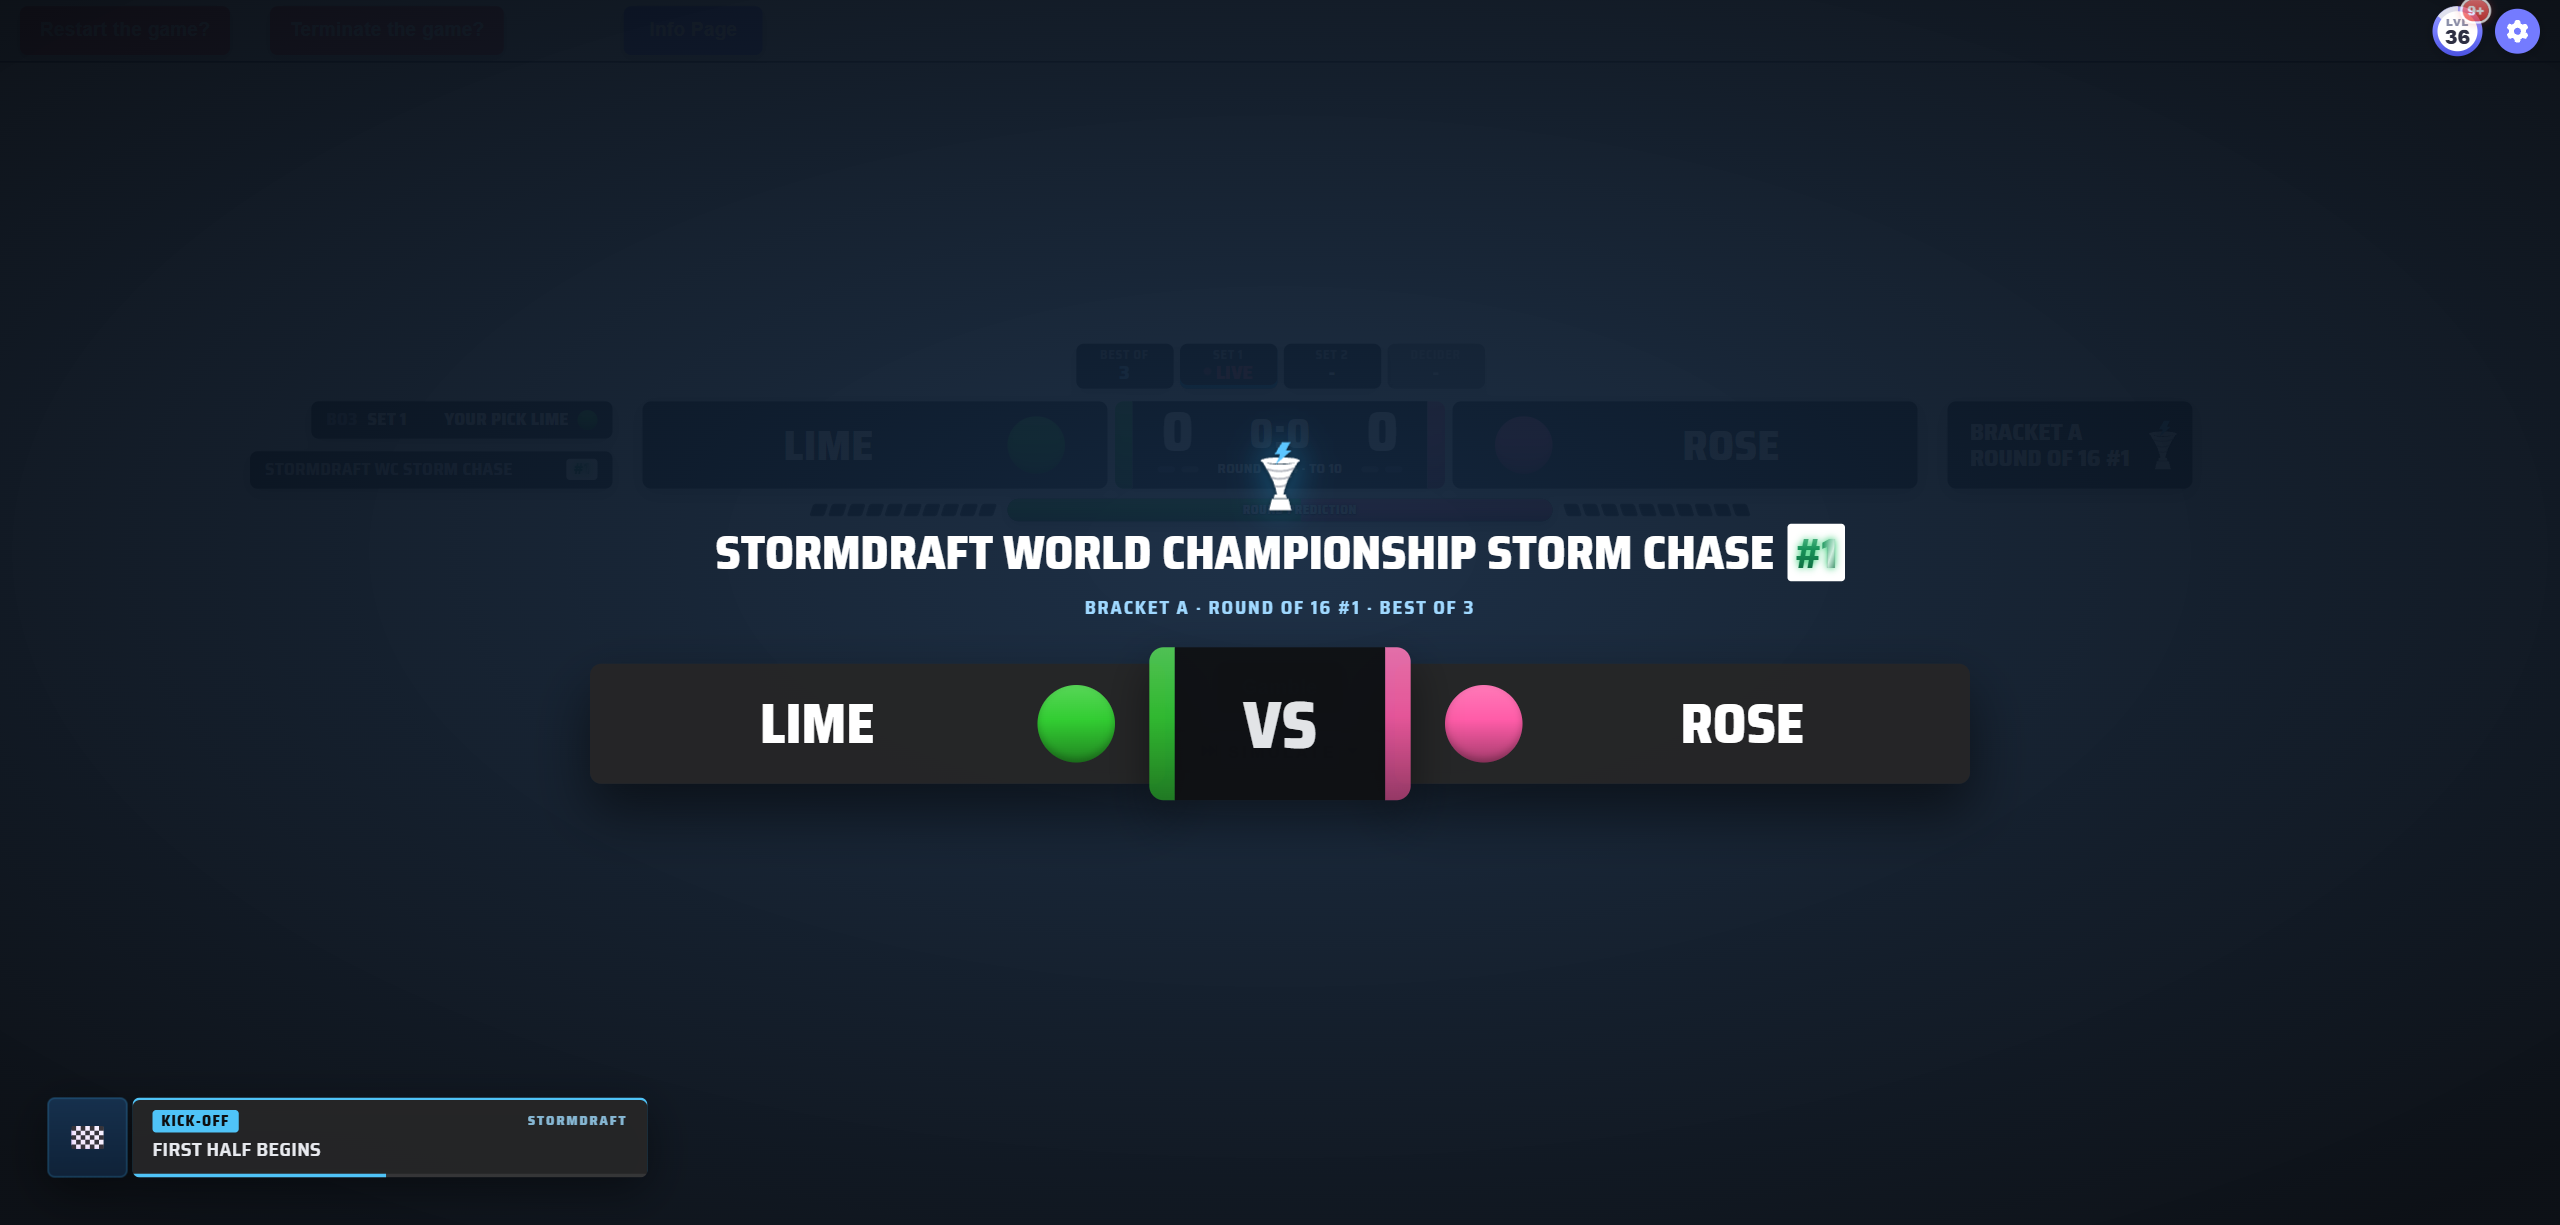
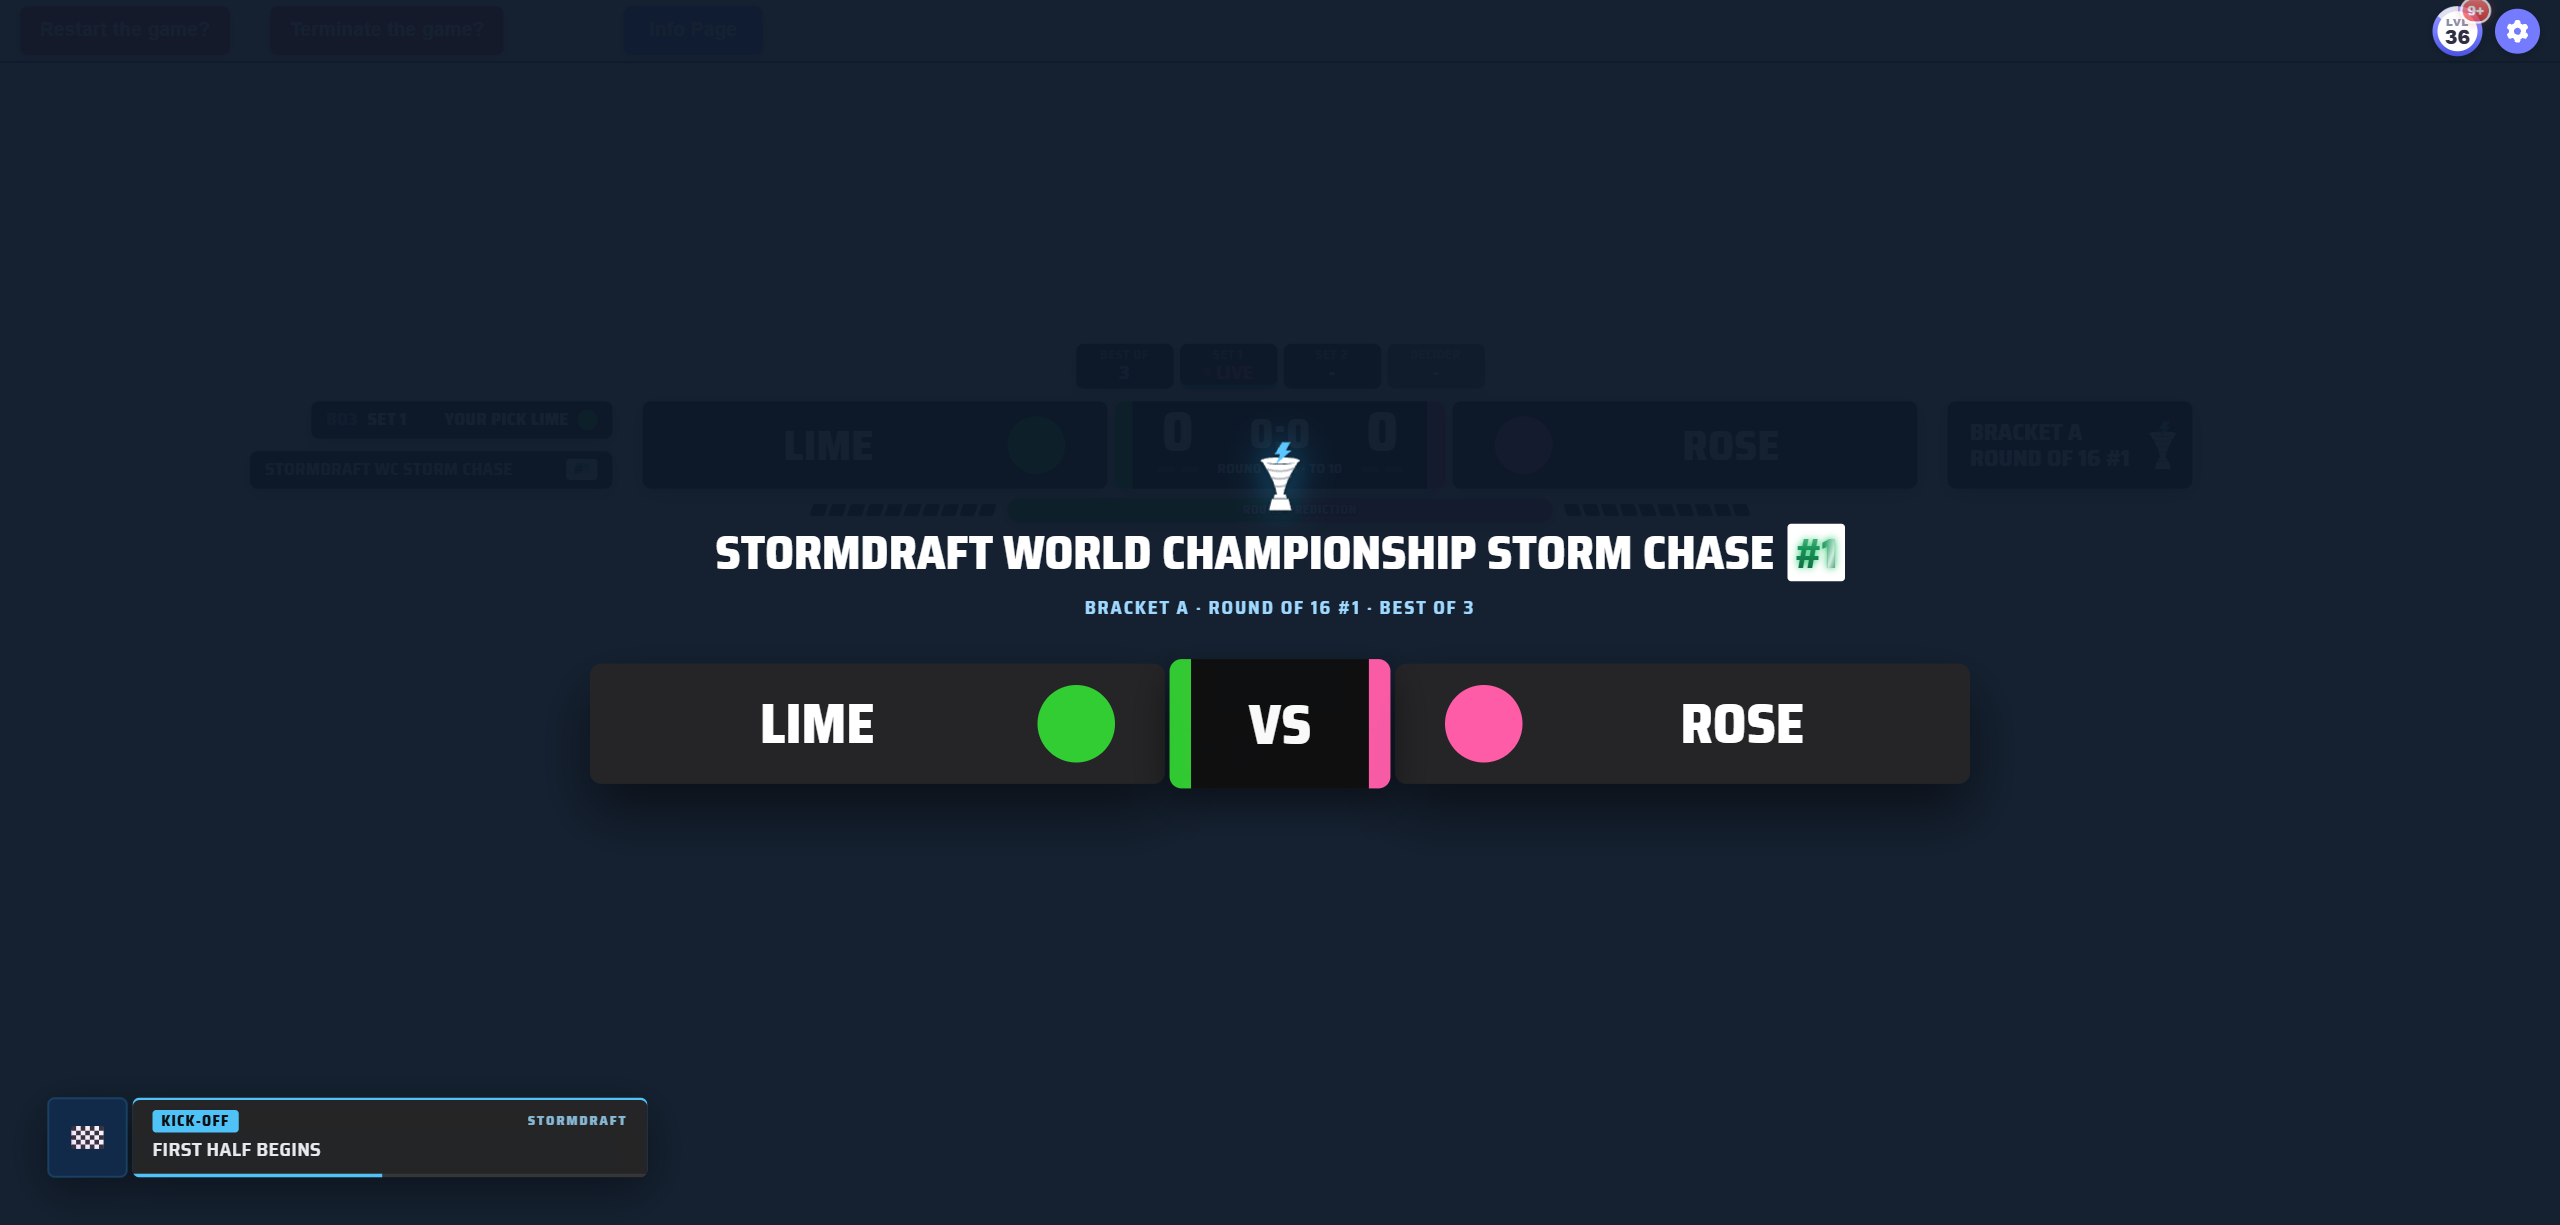
flatten the teams' colors in SWC's HUD

Changed region(s): [[0.4062, 0.5273, 0.5938, 0.6514], [0.875, 0.8996, 1.0, 1.0], [0.0, 0.8996, 0.125, 1.0]]

diff --git a/src/pages/SpecialModePage/series/hud/Swc.module.css b/src/pages/SpecialModePage/series/hud/Swc.module.css
@@ -36,7 +36,6 @@
     width: 100%;
     height: 100%;
     border-radius: 50%;
-    box-shadow: inset 0 -3px 6px rgba(0, 0, 0, 0.25);
 }
 
 .static {
@@ -1025,7 +1024,7 @@
         linear-gradient(118deg, transparent 0 34%, rgba(255, 255, 255, 0.07) 34% 46%, transparent 46%),
         linear-gradient(64deg, transparent 0 58%, rgba(110, 180, 255, 0.12) 58% 71%, transparent 71%),
         linear-gradient(150deg, transparent 0 74%, rgba(255, 255, 255, 0.06) 74% 86%, transparent 86%),
-        linear-gradient(100deg, #0c1a2d 0%, #15335a 45%, #0e2239 72%, #1a426c 100%);
+        #13294a;
     opacity: 0;
 }
 
@@ -1547,7 +1546,7 @@
     align-items: center;
     justify-content: center;
     padding: 24px;
-    background: radial-gradient(70% 70% at 50% 50%, rgba(18, 38, 62, 0.72) 0%, rgba(5, 8, 13, 0.9) 100%);
+    background: rgba(10, 22, 38, 0.84);
     backdrop-filter: blur(10px);
 }
 
@@ -1764,7 +1763,7 @@
     column-gap: 22px;
     padding: 0 26px;
     border-radius: 7px;
-    background: linear-gradient(180deg, var(--s-navy-light), var(--s-navy));
+    background: var(--s-navy);
     box-shadow: 0 6px 16px rgba(0, 0, 0, 0.35);
 }
 
@@ -2166,7 +2165,7 @@ button.set:disabled {
     justify-content: center;
     gap: 34px;
     overflow: hidden;
-    background: radial-gradient(70% 70% at 50% 45%, rgba(18, 38, 62, 0.95) 0%, rgba(5, 9, 15, 0.97) 100%);
+    background: rgba(11, 24, 41, 0.96);
     cursor: pointer;
 }
 
@@ -2438,11 +2437,11 @@ button.set:disabled {
 }
 
 .panel_fill {
-    background: linear-gradient(90deg, color-mix(in srgb, var(--team-color) 62%, #1a1a1c) 0%, color-mix(in srgb, var(--team-color) 40%, #1a1a1c) 100%);
+    background: color-mix(in srgb, var(--team-color) 52%, #1a1a1c);
 }
 
 .panel_setwon .panel_fill {
-    background: linear-gradient(90deg, color-mix(in srgb, var(--team-color) 30%, #252527) 0%, color-mix(in srgb, var(--team-color) 18%, #252527) 100%);
+    background: color-mix(in srgb, var(--team-color) 24%, #252527);
 }
 
 .panel_right .panel_fill {
@@ -2482,7 +2481,7 @@ button.set:disabled {
 }
 
 .panel_shutter {
-    background: linear-gradient(180deg, rgba(8, 8, 9, 0.55) 0%, rgba(8, 8, 9, 0.25) 100%);
+    background: rgba(8, 8, 9, 0.42);
     transform-origin: top center;
 }
 

diff --git a/src/pages/SpecialModePage/series/hud/SwcHud.jsx b/src/pages/SpecialModePage/series/hud/SwcHud.jsx
@@ -233,7 +233,7 @@ const Fit = ({ children }) => {
 
 const teamVars = (team) => ({
     "--team-color": team?.color ?? "#8b909e",
-    "--team-gradient": team?.gradient ?? team?.color ?? "#8b909e",
+    "--team-gradient": team?.color ?? "#8b909e",
     "--team-text": pemTextOn(team?.color),
 });
 
@@ -317,7 +317,7 @@ const Streak = ({ streak = 0 }) => (
 );
 
 const Logo = ({ team, className = "" }) => (
-    <span className={`${css.logo} ${className}`} style={{ background: team?.gradient ?? team?.color, "--team-color": team?.color ?? "#8b909e" }} />
+    <span className={`${css.logo} ${className}`} style={{ background: team?.color ?? "#8b909e", "--team-color": team?.color ?? "#8b909e" }} />
 );
 
 const Panel = ({ side, team, volt = 0, streak = 0, finale = null, play = false, cheat = false, result = null, opacity = 1 }) => (
@@ -809,7 +809,7 @@ export const SwcSets = ({ chips, bestOf, selectedIndex = null, onSelect = null, 
                     disabled={onSelect ? selected : undefined}
                     onClick={onSelect ? () => onSelect(i) : undefined}
                     className={`${css.set} ${css[`set_${chip.status}`] ?? ""} ${selected ? css.set_selected : ""}`}
-                    style={{ "--set-color": chip.winnerTeam?.color ?? "transparent", "--set-gradient": chip.winnerTeam?.gradient ?? "transparent" }}
+                    style={{ "--set-color": chip.winnerTeam?.color ?? "transparent", "--set-gradient": chip.winnerTeam?.color ?? "transparent" }}
                 >
                     <span className={css.set_label}>{chip.label === "DEC" ? "Decider" : `Set ${chip.set}`}</span>
                     {chip.result ? (

diff --git a/src/pages/SpecialModePage/series/hud/PemHud.module.css b/src/pages/SpecialModePage/series/hud/PemHud.module.css
@@ -2875,7 +2875,7 @@ button.chip:disabled {
     left: 0;
     z-index: 2;
     width: 5px;
-    background: var(--team-gradient);
+    background: var(--team-color);
     pointer-events: none;
 }
 
@@ -2995,7 +2995,7 @@ button.chip:disabled {
 }
 
 .theme_swc .name_won {
-    background: var(--team-gradient);
+    background: var(--team-color);
 }
 
 .theme_swc .name_won .name_prefix {
@@ -3013,7 +3013,7 @@ button.chip:disabled {
 }
 
 .theme_swc .stinger {
-    background: linear-gradient(90deg, #0e0e0f 0%, #2e2e31 50%, #0e0e0f 100%);
+    background: #2e2e31;
 }
 
 .theme_swc .stinger_edge {
@@ -3026,7 +3026,7 @@ button.chip:disabled {
 }
 
 .hud.theme_swc.intro {
-    background: radial-gradient(70% 70% at 50% 50%, rgba(28, 30, 35, 0.6) 0%, rgba(0, 0, 0, 0.84) 100%);
+    background: rgba(14, 15, 18, 0.74);
 }
 
 .theme_swc .intro_band {
@@ -3046,7 +3046,7 @@ button.chip:disabled {
 }
 
 .hud.theme_swc.er_overlay {
-    background: radial-gradient(70% 70% at 50% 50%, rgba(18, 38, 62, 0.62) 0%, rgba(0, 0, 0, 0.86) 100%);
+    background: rgba(10, 22, 38, 0.76);
 }
 
 .theme_swc .er_card {
@@ -3085,7 +3085,7 @@ button.chip:disabled {
 }
 
 .theme_swc .divider_line {
-    background: linear-gradient(90deg, transparent, rgba(31, 176, 239, 0.55), transparent);
+    background: rgba(31, 176, 239, 0.55);
 }
 
 .theme_swc .divider_half .divider_to {

diff --git a/src/components/App/AppToast.module.css b/src/components/App/AppToast.module.css
@@ -1306,7 +1306,7 @@
     justify-content: center;
     overflow: hidden;
     border-radius: 6px;
-    background: linear-gradient(180deg, #16304d, #0f2238);
+    background: #122a49;
     box-shadow: inset 0 0 0 1px rgba(63, 192, 255, 0.25);
     animation: swc-toast-pop 380ms cubic-bezier(0.3, 1.4, 0.5, 1) both;
 }
